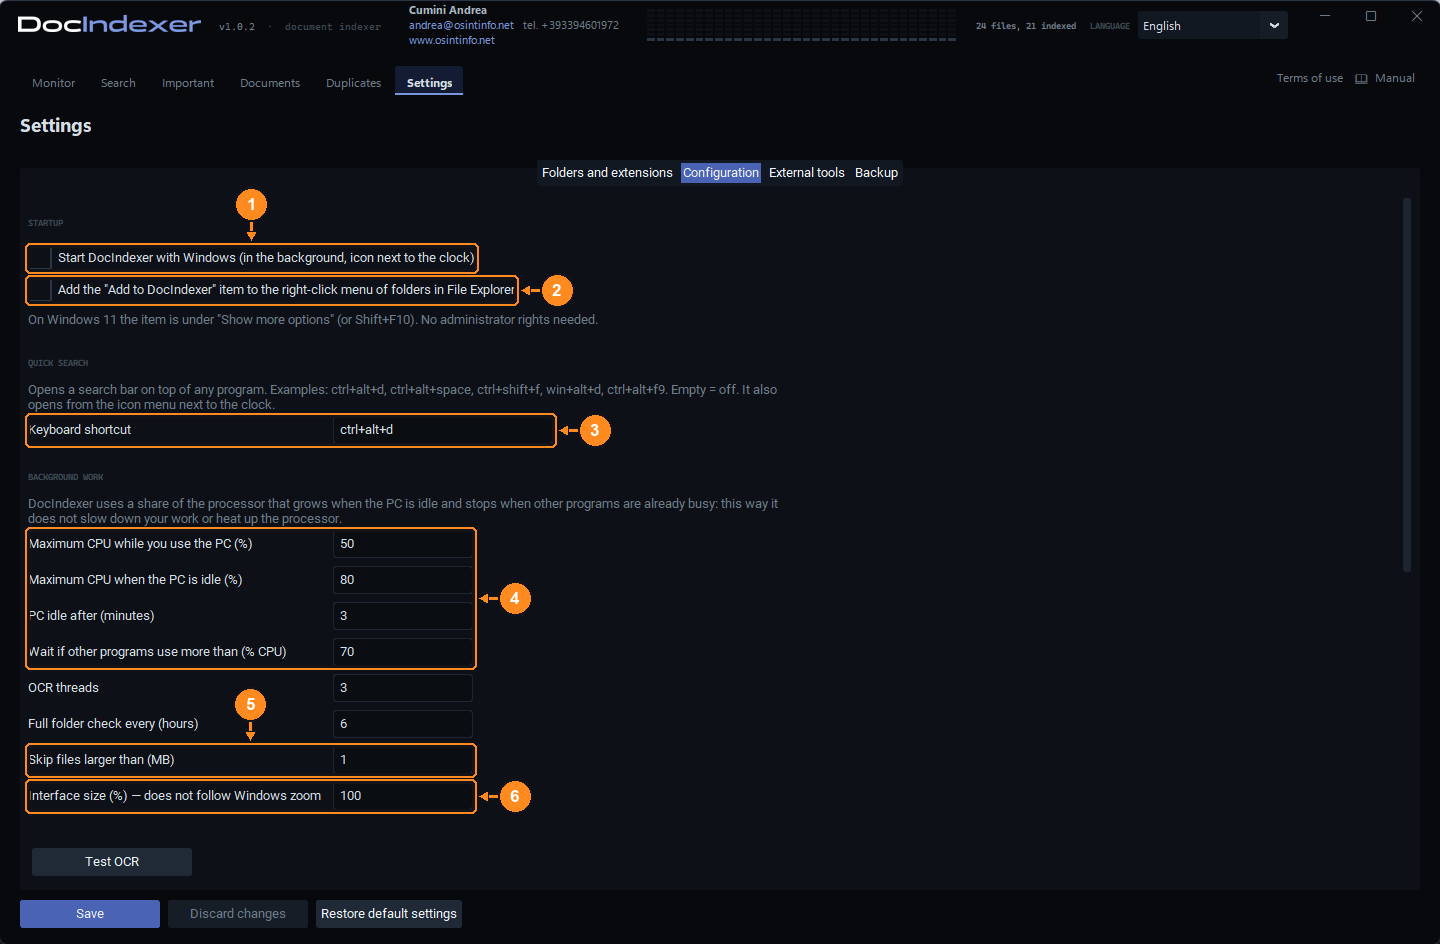
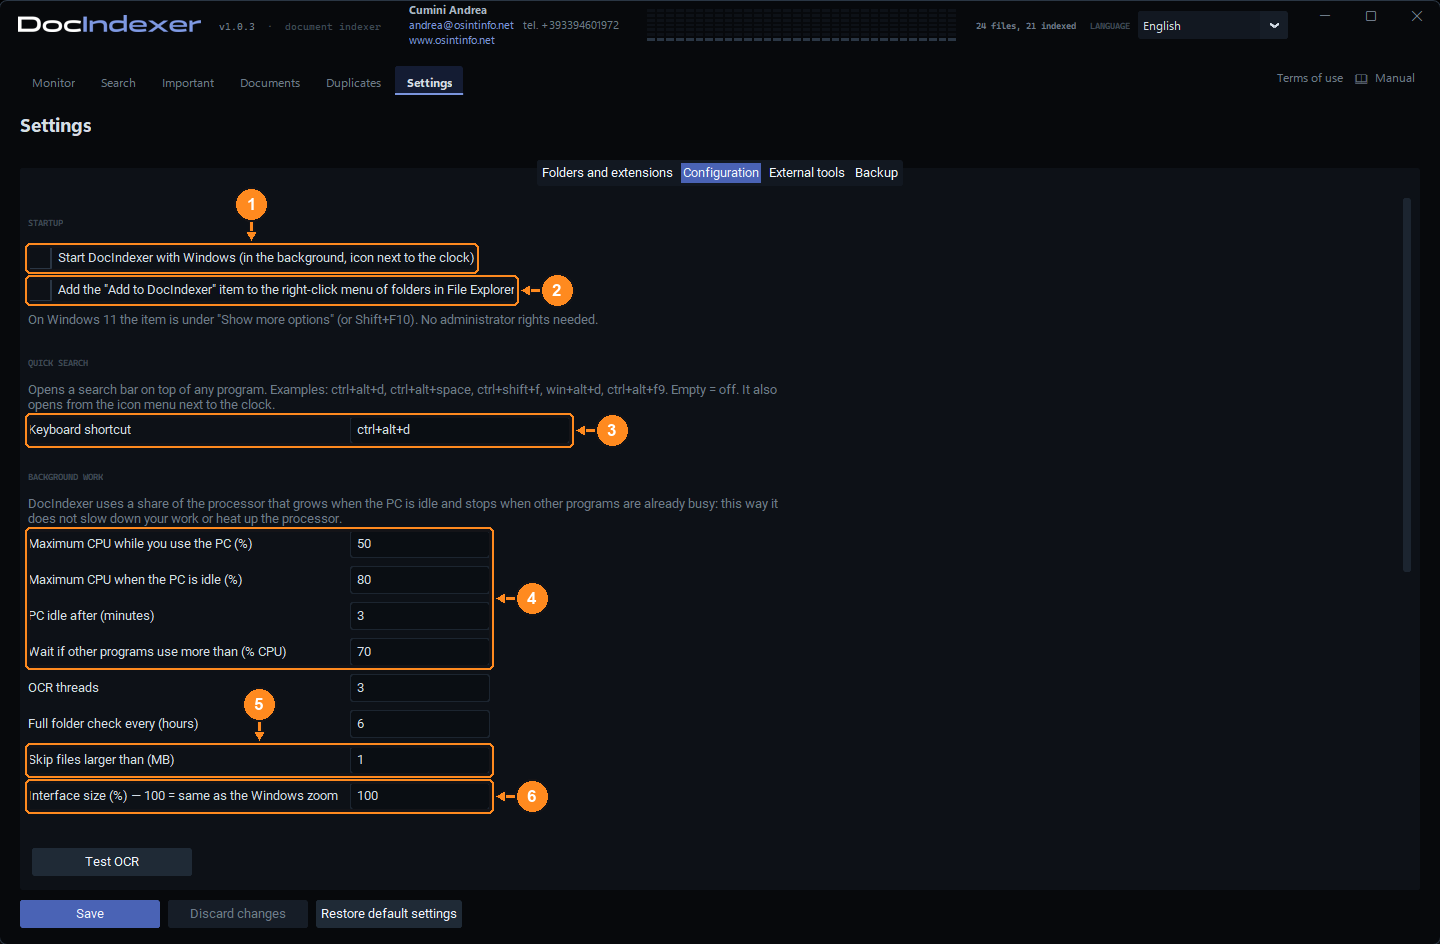
Docs: refresh Configuration screenshots for the new interface size label
Retake 13-settings-config in all 8 languages. Add --only to make_manual_shots.py to retake single Settings screenshots without redoing the whole set.

Claude-Session: https://claude.ai/code/session_01NpqK2SdPAmhequy28ww3XP

diff --git a/scripts/make_manual_shots.py b/scripts/make_manual_shots.py
@@ -41,10 +41,16 @@ def parse_args():
     ap.add_argument("--demo", default=str(default_demo), help="cartella di prova (viene ricreata)")
     ap.add_argument("--out", default=str(ROOT / "docs" / "manual"), help="cartella del manuale")
     ap.add_argument("--keep", action="store_true", help="non cancellare la cartella di prova alla fine")
+    ap.add_argument("--only", default="", help="solo questi screenshot delle Impostazioni, separati da virgola "
+                                              "(es. 13-settings-config); gli altri file restano come sono")
     return ap.parse_args()
 
 
 ARGS = parse_args()
+SETTINGS_SHOTS = {"12-settings-folders", "13-settings-config", "14-settings-tools", "15-settings-backup"}
+ONLY = {n.strip() for n in ARGS.only.split(",") if n.strip()}
+if ONLY - SETTINGS_SHOTS:
+    sys.exit(f"--only vale solo per: {', '.join(sorted(SETTINGS_SHOTS))}")
 DEMO = Path(ARGS.demo)
 HOME = DEMO / "profile"          # config.json, data\, cache\ del profilo di prova
 DOCS = DEMO / "Documents"
@@ -374,6 +380,8 @@ class Shots:
                 self.failed.append(code)
 
     def shot(self, win, name, widgets=None):
+        if ONLY and name not in ONLY:
+            return
         try:
             win.update_idletasks()
             marks = CALLOUTS[name](self, win) if name in CALLOUTS else None
@@ -392,6 +400,9 @@ class Shots:
         yield 1.5
         cname, _ct, iname, _it, word_c, word_i, note = SAMPLES[code]   # relazione, verbale
         self._annotate(code, note)
+        if ONLY:                          # --only: solo le schede delle Impostazioni richieste
+            yield from self.settings(app)
+            return
 
         # --- prima apertura: scelta della lingua e termini d'uso (finte: nessuna risposta, nessun salvataggio)
         for name, need_language in (("18-welcome-language", True), ("19-terms", False)):
@@ -513,10 +524,18 @@ class Shots:
         self.shot(app, "11-similar")
 
         # --- Impostazioni
+        yield from self.settings(app)
+
+        # --- ricerca rapida
+        yield from self.rest(app, code, word_i)
+
+    def settings(self, app):
         app.show("settings")
         st = app.pages["settings"]
         for name, tab in (("12-settings-folders", "Cartelle ed estensioni"), ("13-settings-config", "Configurazione"),
                           ("14-settings-tools", "Strumenti esterni"), ("15-settings-backup", "Backup")):
+            if ONLY and name not in ONLY:
+                continue
             st.tabs.set(tr(tab))
             yield 2.5 if tab == "Strumenti esterni" else 1
             old = None
@@ -533,7 +552,7 @@ class Shots:
                 yield 0.5
         app.show("monitor")
 
-        # --- ricerca rapida
+    def rest(self, app, code, word_i):
         qs = quick.QuickSearch.toggle(app)
         yield 1
         qs = quick.QuickSearch._instance
